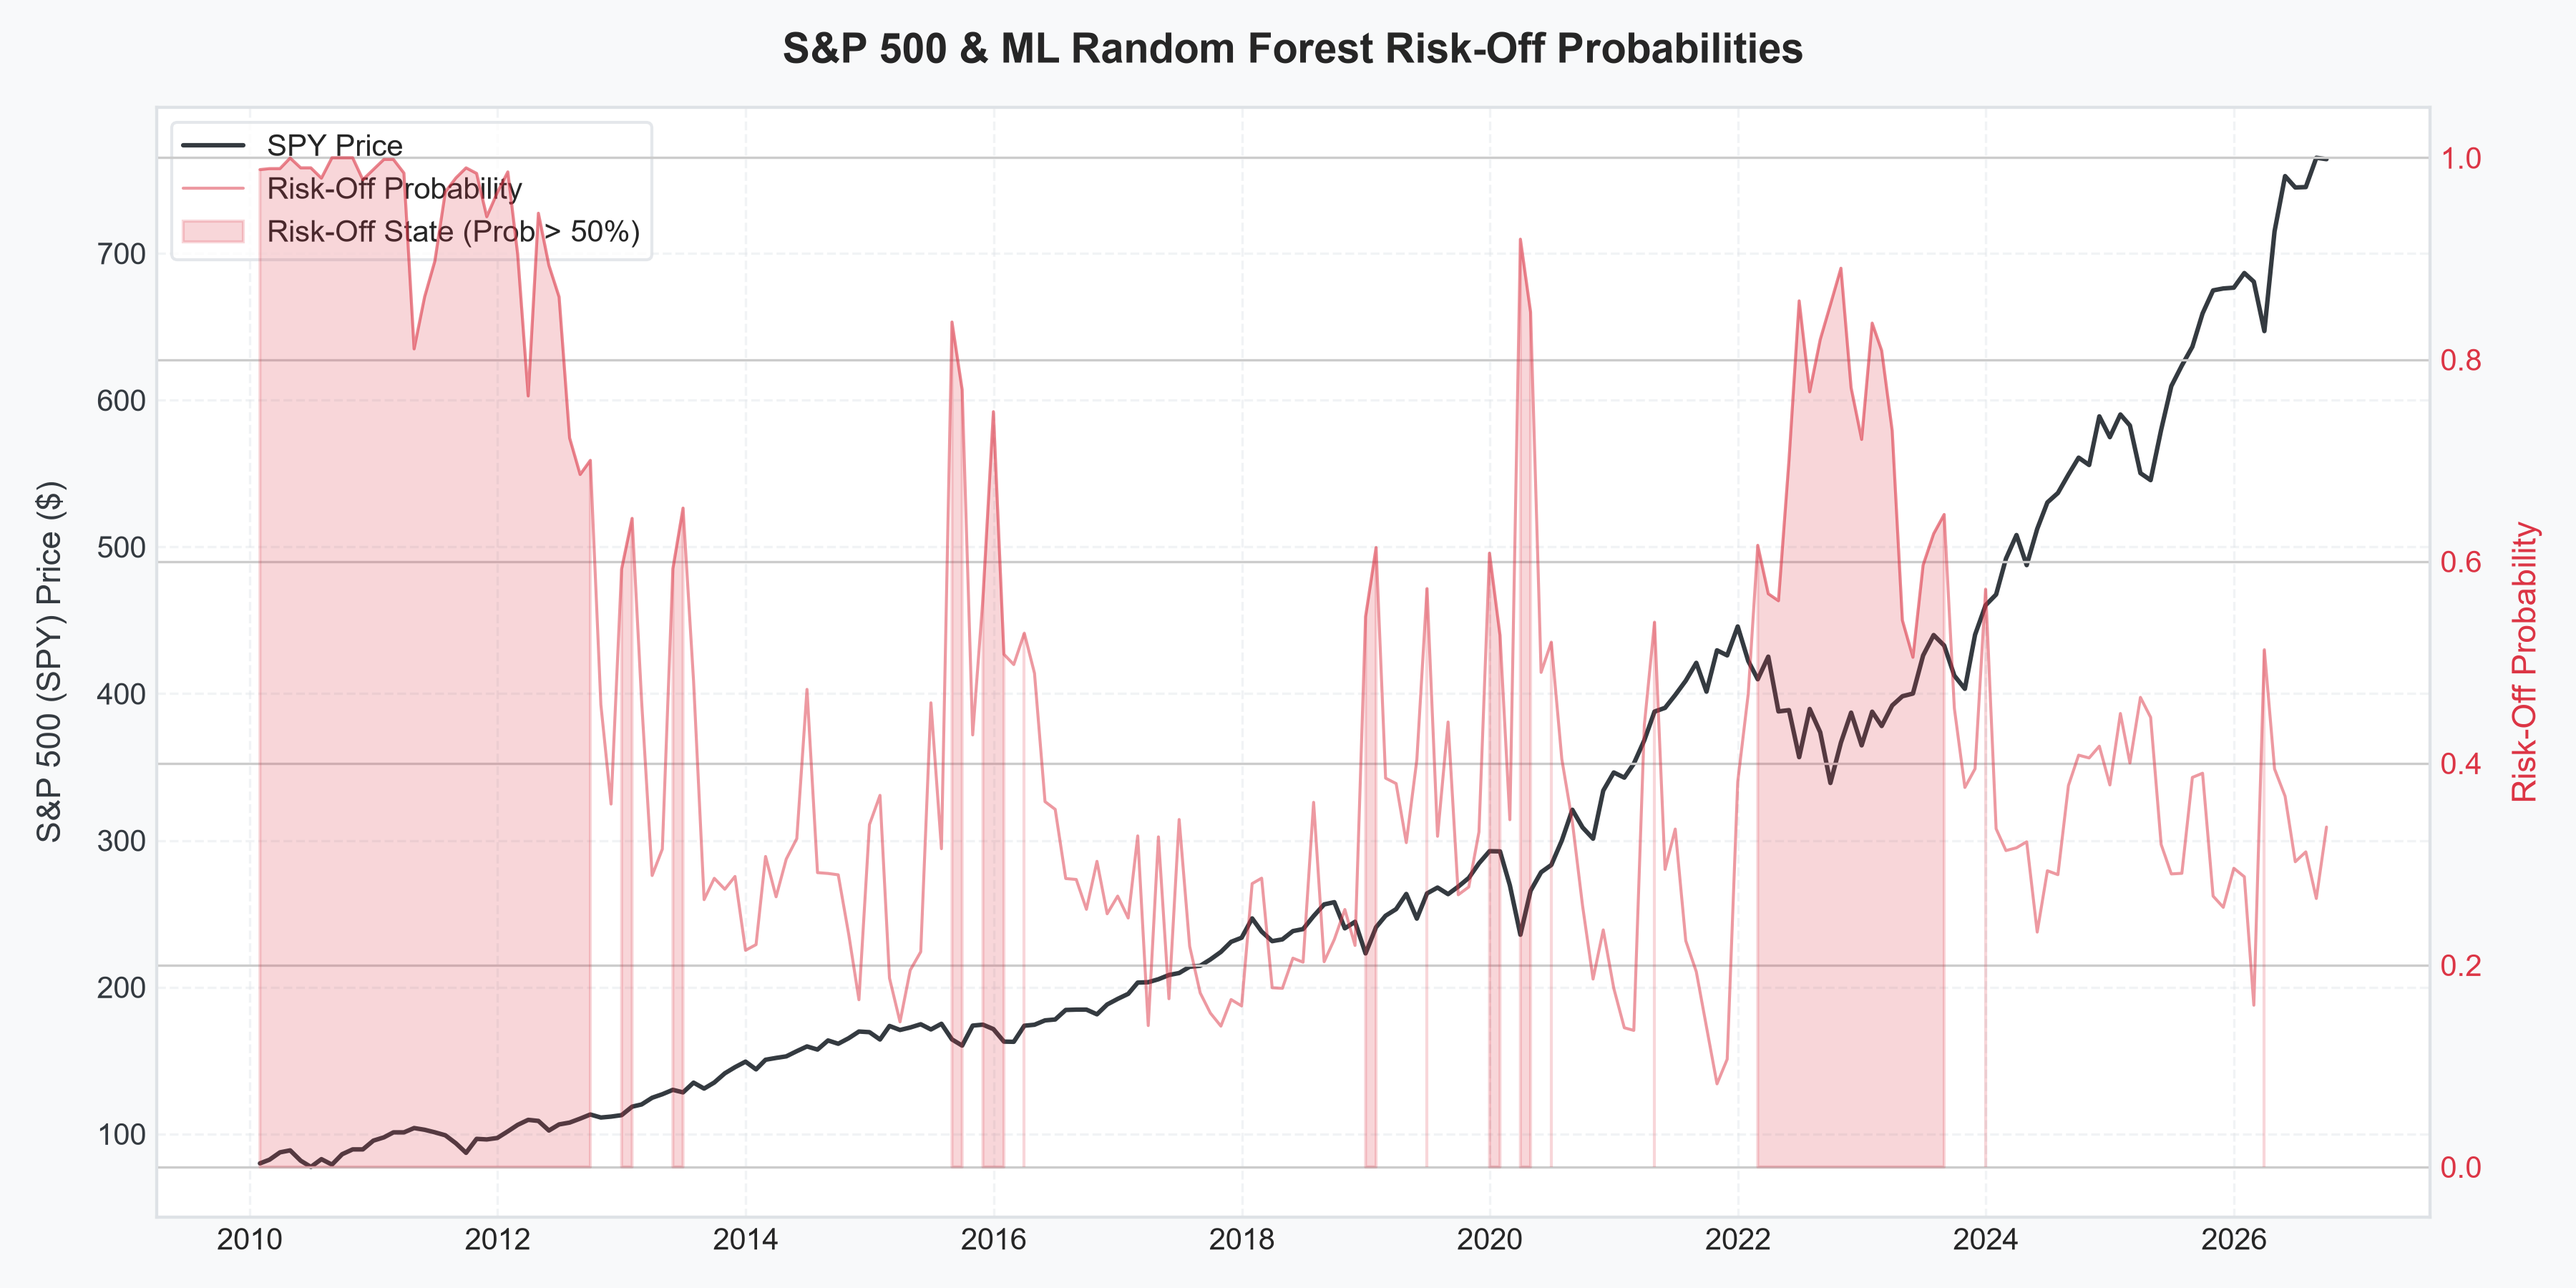
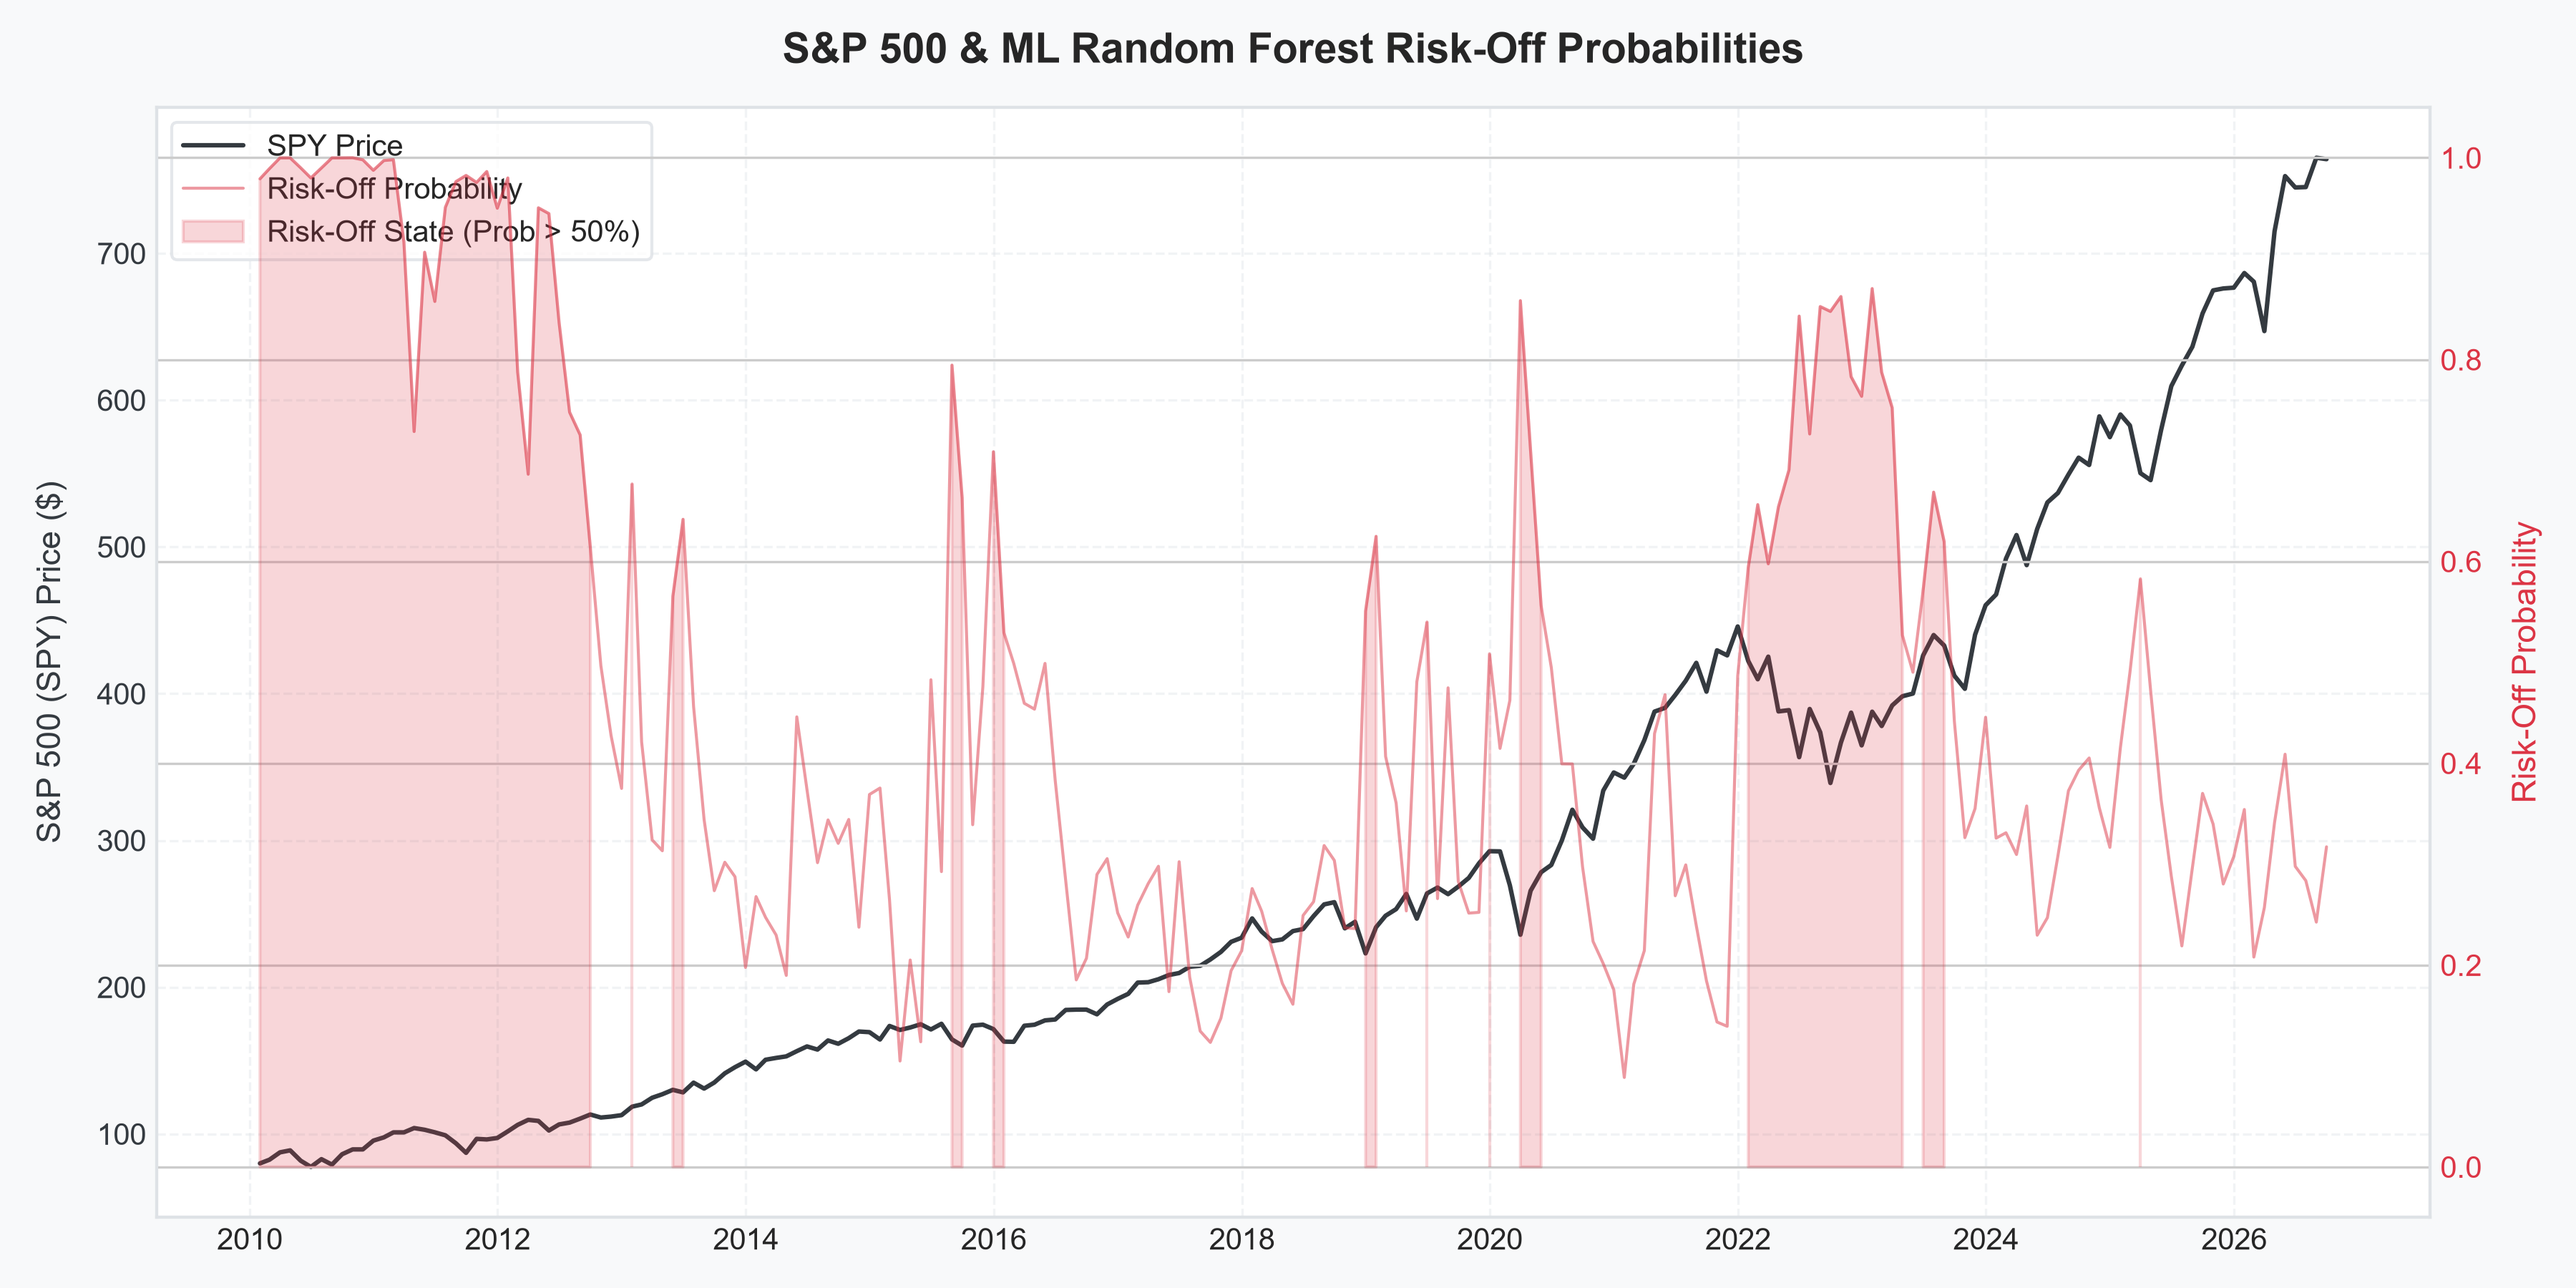
Implement realistic 1-month publication lag on CPI and Unemployment to eliminate look-ahead bias

diff --git a/src/data_loader.py b/src/data_loader.py
@@ -117,9 +117,20 @@ def prepare_dataset(start_date="2000-01-01", end_date=None):
     mkt_monthly = mkt.resample('ME').last()
     
     # 2. Resample Macro Data to Monthly
-    # Macro data is usually monthly (starts at 1st of month). We align it to end of month.
-    macro_monthly = macro.resample('ME').last()
-    # Forward fill macro data in case of missing values
+    # Macro data from FRED is indexed at the 1st of each reference month.
+    # To strictly eliminate publication lag and look-ahead bias in backtesting:
+    # - Daily financial/market rates (10Y2Y spread, Fed Funds) are known in real time.
+    # - Survey/economic releases (CPI inflation index, Unemployment rate) are released with a 1-2 week lag
+    #   (e.g., September CPI and Unemployment are published mid-October).
+    # Therefore, on Month-End T (e.g. Sep 30), the most recently announced economic data is Month T-1 (August).
+    # We apply a 1-month reporting lag (.shift(1)) to CPI and Unemployment.
+    macro_monthly = macro.resample('ME').last().ffill()
+    if 'CPI_Inflation_Index' in macro_monthly.columns:
+        macro_monthly['CPI_Inflation_Index'] = macro_monthly['CPI_Inflation_Index'].shift(1)
+    if 'Unemployment_Rate' in macro_monthly.columns:
+        macro_monthly['Unemployment_Rate'] = macro_monthly['Unemployment_Rate'].shift(1)
+    
+    # Forward fill any initial shifted gap if needed
     macro_monthly = macro_monthly.ffill()
     
     # Combine datasets
